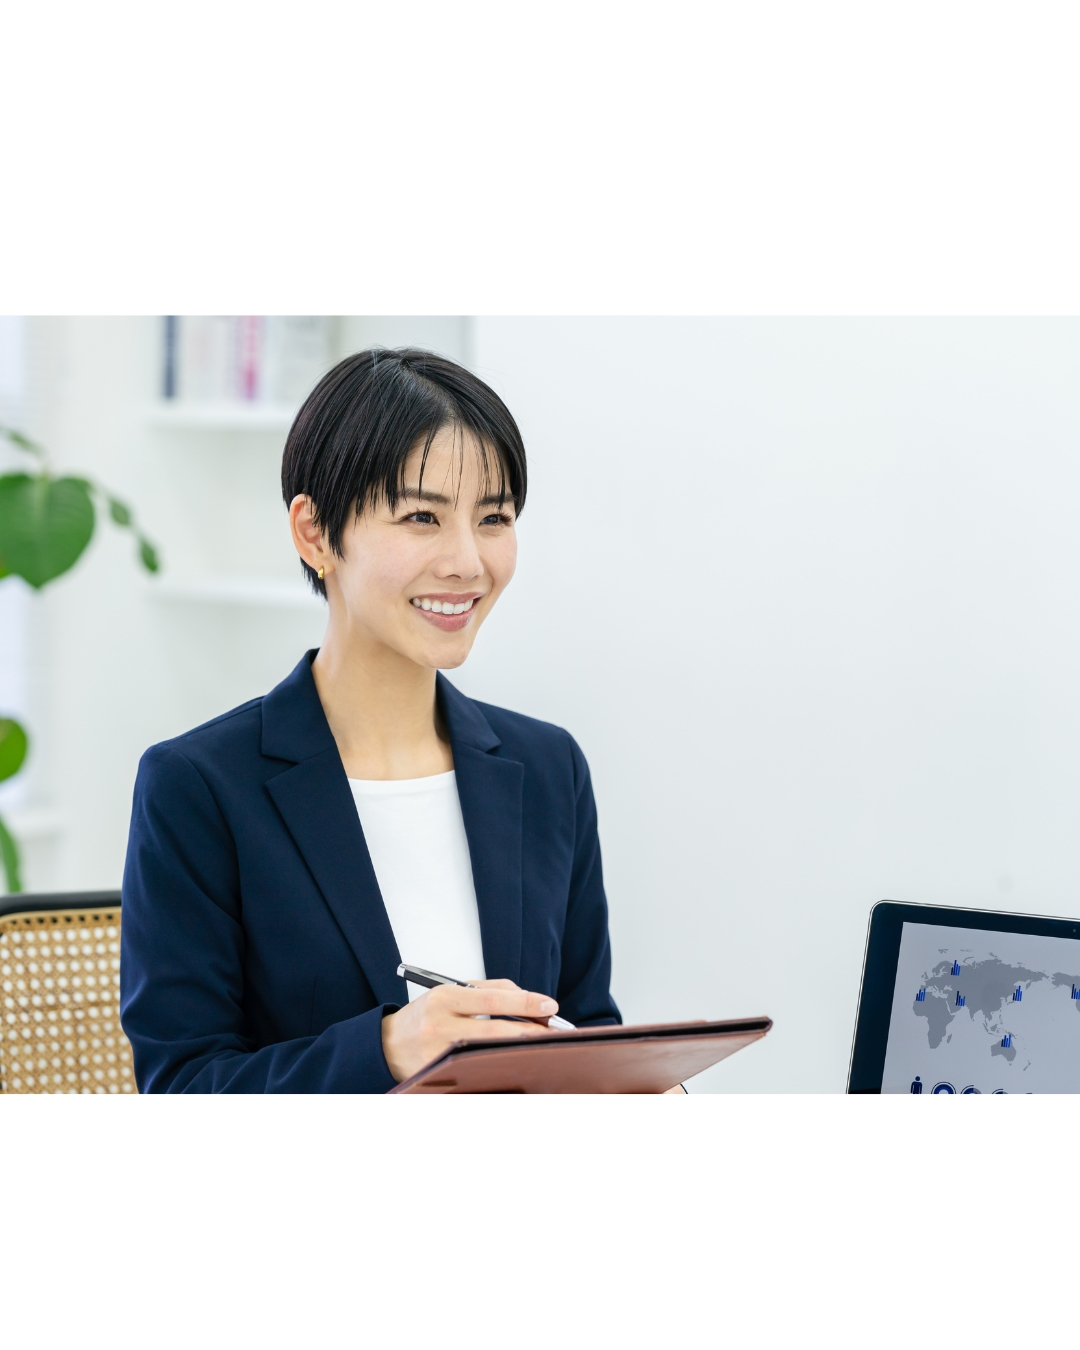
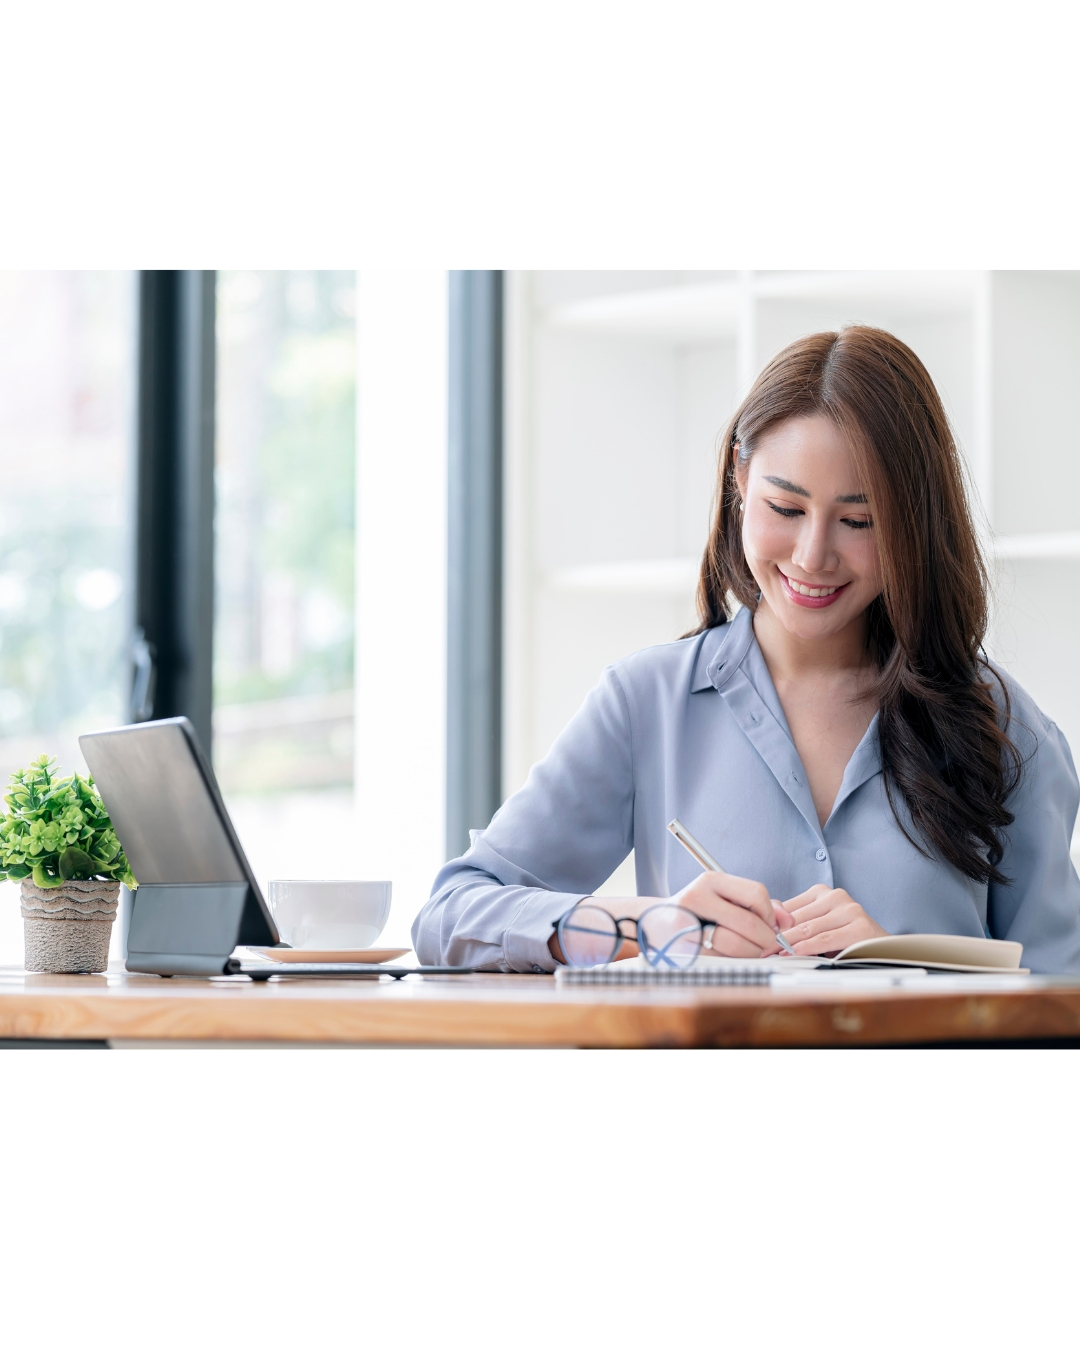
Hero: renumber slides 1-5, fix JS slideshow references, update card text

diff --git a/style.css b/style.css
@@ -258,10 +258,10 @@ input, textarea, select, button,
 }
 .hero-slide.active { opacity: 1; }
 .hero-slide:nth-child(1) { background-image: url('images/hero-slide1.jpg'); background-position: center 30%; }
-.hero-slide:nth-child(2) { background-image: url('images/hero-slide3.jpg'); background-position: center 25%; }
-.hero-slide:nth-child(3) { background-image: url('images/hero-slide5.jpg'); background-position: center center; }
-.hero-slide:nth-child(4) { background-image: url('images/hero-slide6.jpg'); background-position: center center; }
-.hero-slide:nth-child(5) { background-image: url('images/hero-slide7.jpg'); background-position: center center; }
+.hero-slide:nth-child(2) { background-image: url('images/hero-slide2.jpg'); background-position: center 25%; }
+.hero-slide:nth-child(3) { background-image: url('images/hero-slide3.jpg'); background-position: center center; }
+.hero-slide:nth-child(4) { background-image: url('images/hero-slide4.jpg'); background-position: center center; }
+.hero-slide:nth-child(5) { background-image: url('images/hero-slide5.jpg'); background-position: center center; }
 .hero-overlay {
   position: absolute; inset: 0;
   background: linear-gradient(to bottom, rgba(10,25,20,0.78) 0%, rgba(10,25,20,0.62) 50%, rgba(10,25,20,0.80) 100%);

diff --git a/ldc.html b/ldc.html
@@ -135,10 +135,10 @@ a { color: inherit; text-decoration: none; }
 }
 .hero-slide.active { opacity: 1; }
 .hero-slide:nth-child(1) { background-image: url('images/hero-slide1.jpg'); background-position: center 30%; }
-.hero-slide:nth-child(2) { background-image: url('images/hero-slide3.jpg'); background-position: center 25%; }
-.hero-slide:nth-child(3) { background-image: url('images/hero-slide5.jpg'); background-position: center center; }
-.hero-slide:nth-child(4) { background-image: url('images/hero-slide6.jpg'); background-position: center center; }
-.hero-slide:nth-child(5) { background-image: url('images/hero-slide7.jpg'); background-position: center center; }
+.hero-slide:nth-child(2) { background-image: url('images/hero-slide2.jpg'); background-position: center 25%; }
+.hero-slide:nth-child(3) { background-image: url('images/hero-slide3.jpg'); background-position: center center; }
+.hero-slide:nth-child(4) { background-image: url('images/hero-slide4.jpg'); background-position: center center; }
+.hero-slide:nth-child(5) { background-image: url('images/hero-slide5.jpg'); background-position: center center; }
 
 /* dark gradient overlay for text legibility */
 .hero-overlay {

diff --git a/index.html b/index.html
@@ -291,7 +291,7 @@
               <!-- 区切り線 -->
               <div style="width:40px;height:1px;background:linear-gradient(to right,transparent,#b8976a,transparent);margin:0 auto 10px;"></div>
               <!-- サブコピー -->
-              <div style="font-size:0.68rem;color:rgba(212,184,140,0.8);letter-spacing:0.1em;">完全オーダーメイド・マンツーマン伴走</div>
+              <div style="font-size:0.7rem;color:rgba(212,184,140,0.9);letter-spacing:0.08em;line-height:1.8;">3ヶ月・6ヶ月長期サポート<br>オーダーメイドコーチングプログラム</div>
             </div>
           </div>
           <div class="menu-card-body">
